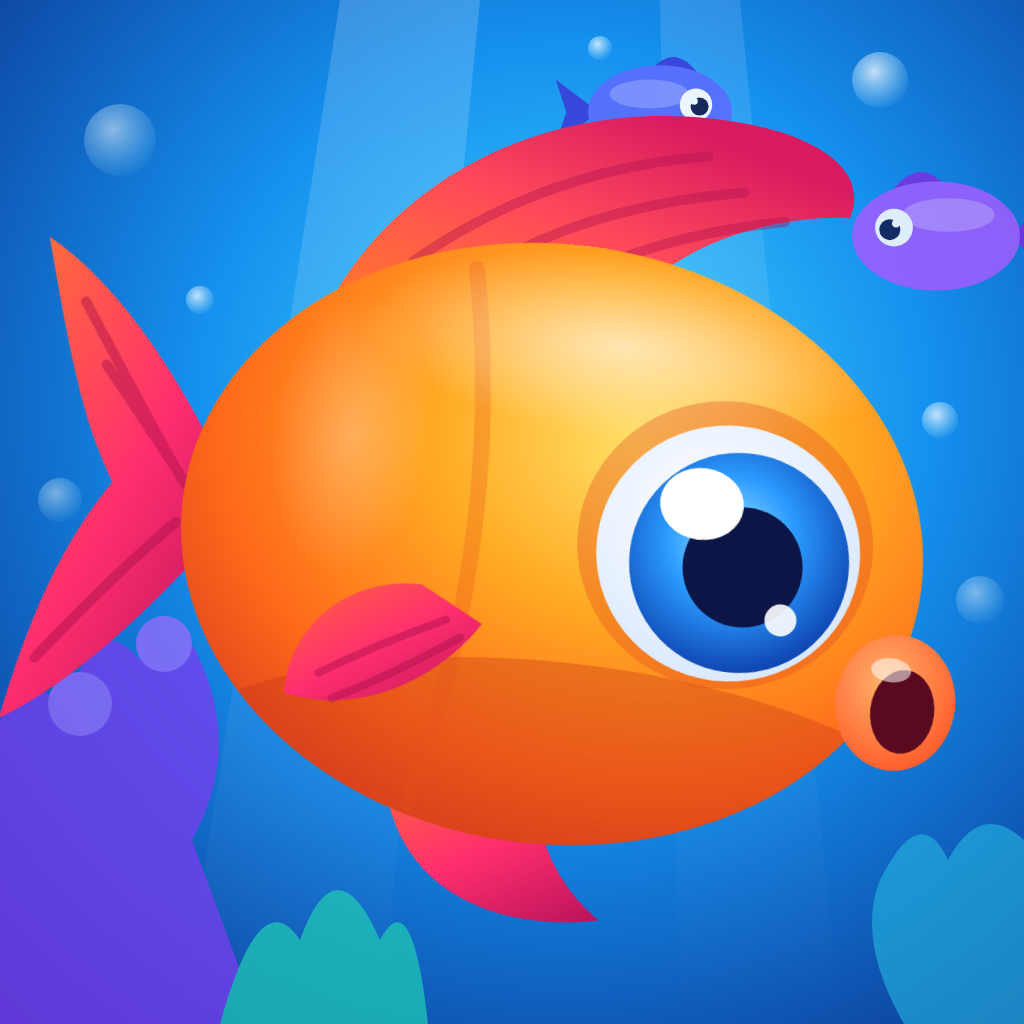
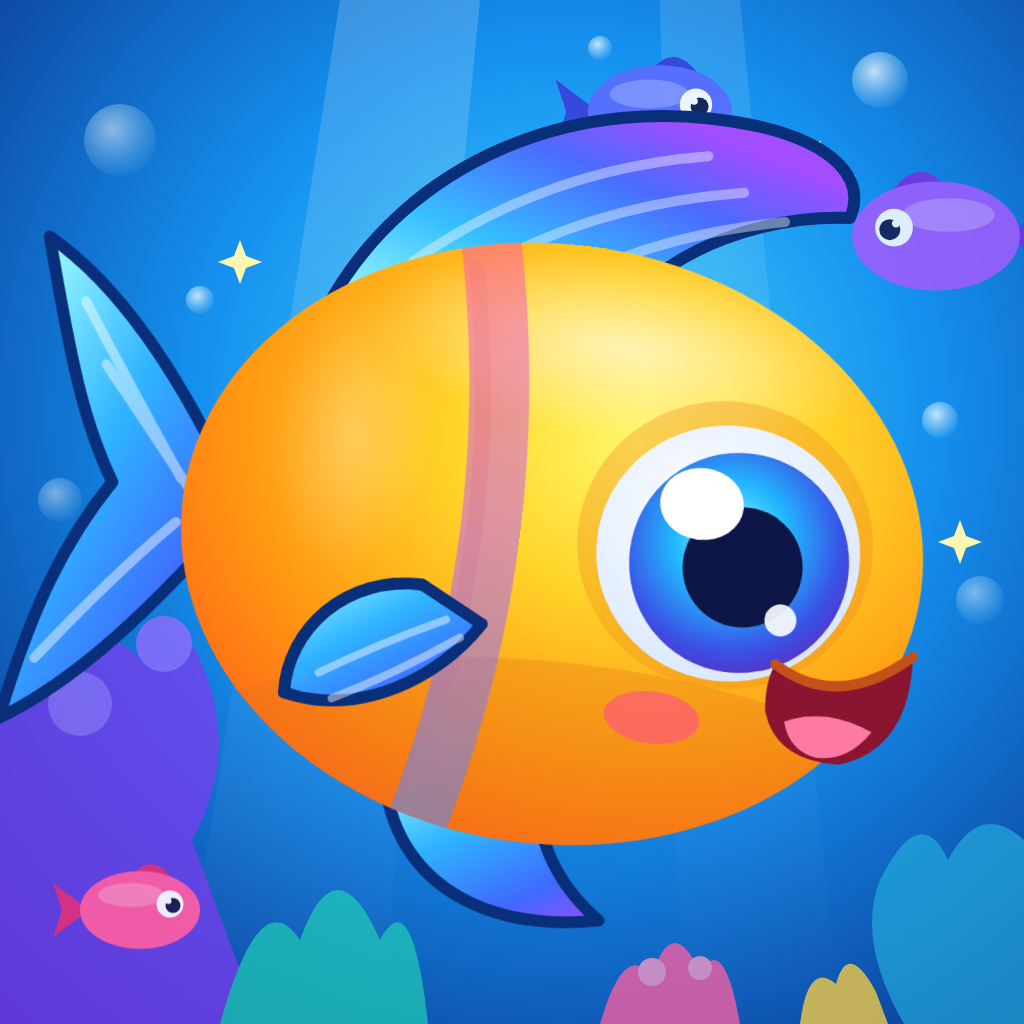
v3.4.0: Endless sea; colourful mascot; NibbleNaut repo and address
- The sea is endless left and right: tiled seamless scenery, spawning
  around the player, no camera edges, Plenty zones follow along.
- Mascot recoloured: orange-yellow body, rainbow blue-violet fins, smile,
  pink-violet stripe; colourful coral, fish and sparkles behind.
- Docs point to https://nafeesmansoor.github.io/NibbleNaut/ (repo renamed
  from fish-fight); custom-domain notes for nabeeha.mansoor.info.

diff --git a/src/render/decor.ts b/src/render/decor.ts
@@ -2,7 +2,8 @@ import { CONFIG } from '../config';
 import { pickWeighted, randRange, seededRng, type Rng } from '../core/math';
 
 /**
- * Reef scenery along the seabed, generated once from a fixed seed. Two rows give depth:
+ * Reef scenery along the seabed, generated once from a fixed seed. The sea is endless: the scenery
+ * is one tile `CONFIG.world.width` long that repeats seamlessly to the left and right. Two rows give depth:
  * the back row stands on the sand line and is softened by water haze; the front row sits in the
  * sand in the foreground. Everything is lit from above (lighter tops, darker bases).
  */
@@ -69,16 +70,20 @@ const PEBBLES = ['#b9b2a6', '#9a9389', '#c7bfb2'];
 export class Decor {
   readonly back: Item[] = [];
   readonly front: Item[] = [];
-  /** Sand surface heights sampled every `sandStep` world units. */
+  /** Sand surface heights sampled every `sandStep` world units across one tile (periodic). */
   readonly sand: number[] = [];
   readonly sandStep = 80;
+  private readonly period = CONFIG.world.width;
 
   constructor(seed = 7) {
     const rng = seededRng(seed);
     const W = CONFIG.world.width;
     const base = CONFIG.world.height - CONFIG.world.seabedHeight;
-    for (let x = 0; x <= W + this.sandStep; x += this.sandStep) {
-      this.sand.push(base + 14 + Math.sin(x * 0.0021) * 10 + Math.sin(x * 0.007 + 1) * 6 + rng() * 4);
+    // Whole numbers of waves per tile, so the sand meets itself seamlessly where tiles join.
+    const k1 = (Math.PI * 2 * 4) / W;
+    const k2 = (Math.PI * 2 * 13) / W;
+    for (let x = 0; x < W; x += this.sandStep) {
+      this.sand.push(base + 14 + Math.sin(x * k1) * 10 + Math.sin(x * k2 + 1) * 6 + rng() * 4);
     }
 
     let x = 20;
@@ -119,28 +124,48 @@ export class Decor {
     }
   }
 
+  /** Sand height at sample index `i` (any integer: the samples repeat every tile). */
+  private sandSample(i: number): number {
+    const n = this.sand.length;
+    return this.sand[((i % n) + n) % n];
+  }
+
   sandAt(x: number): number {
-    const i = Math.max(0, Math.min(this.sand.length - 2, Math.floor(x / this.sandStep)));
-    const t = x / this.sandStep - i;
-    return this.sand[i] + (this.sand[i + 1] - this.sand[i]) * Math.max(0, Math.min(1, t));
+    const f = x / this.sandStep;
+    const i = Math.floor(f);
+    const a = this.sandSample(i);
+    return a + (this.sandSample(i + 1) - a) * (f - i);
   }
 
   drawBack(ctx: CanvasRenderingContext2D, x0: number, x1: number, y0: number, y1: number, t: number, zoom: number): void {
-    drawItems(ctx, this.back, x0, x1, y0, y1, t, zoom);
+    this.tiled(ctx, this.back, x0, x1, y0, y1, t, zoom);
   }
 
   drawFront(ctx: CanvasRenderingContext2D, x0: number, x1: number, y0: number, y1: number, t: number, zoom: number): void {
-    drawItems(ctx, this.front, x0, x1, y0, y1, t, zoom);
+    this.tiled(ctx, this.front, x0, x1, y0, y1, t, zoom);
+  }
+
+  /** Draws every repeat of the tile that overlaps [x0, x1] (with a margin for wide items). */
+  private tiled(ctx: CanvasRenderingContext2D, items: Item[], x0: number, x1: number, y0: number, y1: number, t: number, zoom: number): void {
+    const W = this.period;
+    const margin = 600;
+    for (let k = Math.floor((x0 - margin) / W); k <= Math.floor((x1 + margin) / W); k++) {
+      const off = k * W;
+      ctx.save();
+      ctx.translate(off, 0);
+      drawItems(ctx, items, x0 - off, x1 - off, y0, y1, t, zoom);
+      ctx.restore();
+    }
   }
 
   /** Sand band: textured fill, then shading so it darkens with distance into the foreground. */
   drawSand(ctx: CanvasRenderingContext2D, x0: number, x1: number, texture: CanvasPattern | null, fallback: string, plenty: boolean): void {
     const H = CONFIG.world.height;
-    const i0 = Math.max(0, Math.floor(x0 / this.sandStep) - 1);
-    const i1 = Math.min(this.sand.length - 1, Math.ceil(x1 / this.sandStep) + 1);
+    const i0 = Math.floor(x0 / this.sandStep) - 1;
+    const i1 = Math.ceil(x1 / this.sandStep) + 1;
     ctx.beginPath();
     ctx.moveTo(i0 * this.sandStep, H + 50);
-    for (let i = i0; i <= i1; i++) ctx.lineTo(i * this.sandStep, this.sand[i]);
+    for (let i = i0; i <= i1; i++) ctx.lineTo(i * this.sandStep, this.sandSample(i));
     ctx.lineTo(i1 * this.sandStep, H + 50);
     ctx.closePath();
     ctx.fillStyle = texture ?? fallback;

diff --git a/src/game/World.ts b/src/game/World.ts
@@ -42,6 +42,10 @@ export interface WorldOptions {
  * Everything the presentation layer needs to react to is emitted as `events`.
  */
 export class World {
+  /**
+   * The sea is endless to the left and right. `width` is only the distance after which the
+   * scenery and the Ocean of Plenty feeding zones repeat.
+   */
   readonly width = CONFIG.world.width;
   readonly height = CONFIG.world.height;
   readonly seabedY = CONFIG.world.height - CONFIG.world.seabedHeight;
@@ -97,6 +101,8 @@ export class World {
       this.stats.time += dt;
       this.updatePlayer(dt, controls);
     }
+    // Zones repeat every `width`: each one sits at its copy nearest the player.
+    for (const z of this.zones) z.x = z.baseX + Math.round((p.x - z.baseX) / this.width) * this.width;
     for (const f of this.fish) updateFishAI(this, f, dt);
     this.updateFood(dt);
     resolveCollisions(this);
@@ -123,16 +129,12 @@ export class World {
     return e;
   }
 
-  /** Keeps a body of the given radius inside the swimmable water column. */
+  /** Keeps a body between the surface and the seabed. There are no side walls: the sea is endless. */
   clampToWater(b: { x: number; y: number; radius: number }): boolean {
-    const minX = b.radius;
-    const maxX = this.width - b.radius;
     const minY = b.radius * 0.6;
     const maxY = this.seabedY - b.radius * 0.4;
-    const nx = clamp(b.x, minX, maxX);
     const ny = clamp(b.y, minY, Math.max(minY, maxY));
-    const hit = nx !== b.x || ny !== b.y;
-    b.x = nx;
+    const hit = ny !== b.y;
     b.y = ny;
     return hit;
   }
@@ -192,10 +194,7 @@ export class World {
     const prevSize = p.size;
     p.size = Math.abs(p.targetSize - p.size) < 0.01 ? p.targetSize : damp(p.size, p.targetSize, CONFIG.size.growRate, dt);
     if (p.size !== prevSize) p.radius = radiusFor(p.size);
-    if (this.clampToWater(p)) {
-      if (p.x <= p.radius || p.x >= this.width - p.radius) p.vx *= 0.3;
-      if (p.y <= p.radius * 0.6 || p.y >= this.seabedY - p.radius * 0.4) p.vy *= 0.3;
-    }
+    if (this.clampToWater(p)) p.vy *= 0.3;
 
     if (Math.abs(p.vx) > 4) p.facing = p.vx < 0 ? -1 : 1;
     const sp = Math.hypot(p.vx, p.vy);
@@ -239,7 +238,7 @@ export class World {
       // Spread zones across the width; keep one close to the start so the bonus is felt early.
       const x = i === 0 ? this.player.x + 900 : randRange(this.rng, margin, this.width - margin);
       const y = i === 0 ? this.player.y - 300 : randRange(this.rng, margin, this.seabedY - cfg.zoneRadius);
-      this.zones.push({ id: i, x, y, radius: cfg.zoneRadius });
+      this.zones.push({ id: i, x, baseX: x, y, radius: cfg.zoneRadius });
     }
   }
 }

diff --git a/src/systems/spawn.ts b/src/systems/spawn.ts
@@ -102,7 +102,7 @@ export class SpawnManager {
     for (let attempt = 0; attempt < 12; attempt++) {
       const x = w.viewX + (w.rng() * 2 - 1) * w.viewHalfW * m;
       const y = w.viewY + (w.rng() * 2 - 1) * w.viewHalfH * m;
-      if (x < r || x > w.width - r || y < minY || y > maxY) continue;
+      if (y < minY || y > maxY) continue;
       const margin = r + 60;
       if (Math.abs(x - w.viewX) < w.viewHalfW + margin && Math.abs(y - w.viewY) < w.viewHalfH + margin) continue;
       return { x, y };
@@ -138,7 +138,7 @@ export class SpawnManager {
       for (let i = 0; i < n && w.fish.length < s.fishTarget + 6; i++) {
         const fs = clamp(size * randRange(w.rng, 0.85, 1.15), species.minSize, species.maxSize);
         const spread = radiusFor(fs) * 4;
-        const fx = clamp(pos.x + (w.rng() * 2 - 1) * spread, 0, w.width);
+        const fx = pos.x + (w.rng() * 2 - 1) * spread;
         const fy = clamp(pos.y + (w.rng() * 2 - 1) * spread, 40, w.seabedY - 10);
         w.fish.push(new Fish(w.newFishId(), species, fx, fy, fs, angle + (w.rng() - 0.5) * 0.3));
       }
@@ -164,7 +164,7 @@ export class SpawnManager {
       x = w.viewX + (w.rng() * 2 - 1) * w.viewHalfW * m;
       y = w.viewY + (w.rng() * 2 - 1) * w.viewHalfH * m;
     }
-    if (x < 20 || x > w.width - 20 || y < 60 || y > w.seabedY - 12) return false;
+    if (y < 60 || y > w.seabedY - 12) return false;
     const p = w.player;
     const keepOut = p.radius * 2.5;
     if (Math.abs(x - p.x) < keepOut && Math.abs(y - p.y) < keepOut) return false;

diff --git a/tests/world.test.ts b/tests/world.test.ts
@@ -105,12 +105,30 @@ describe('world', () => {
       expect(w.food.length).toBeLessThan(400);
       for (const f of w.fish) {
         expect(Number.isFinite(f.x) && Number.isFinite(f.y)).toBe(true);
-        expect(f.x).toBeGreaterThanOrEqual(0);
-        expect(f.x).toBeLessThanOrEqual(w.width);
         expect(f.y).toBeGreaterThanOrEqual(0);
         expect(f.y).toBeLessThanOrEqual(w.seabedY);
       }
       for (const f of w.food) expect(f.y).toBeLessThanOrEqual(w.seabedY);
+    }
+  });
+
+  it('the sea is endless: the player swims past the old edges and fish keep spawning nearby', () => {
+    for (const dir of [-1, 1]) {
+      const w = new World({ startSize: 10, ocean: 'plenty', rng: seededRng(3) });
+      const p = w.player;
+      p.protectTime = 1e9;
+      p.x = dir < 0 ? -40000 : w.width + 40000;
+      w.fish.length = 0;
+      const startX = p.x;
+      for (let i = 0; i < 600; i++) {
+        w.update(1 / 60, { moveX: dir, moveY: 0, dash: false });
+        w.setView(p.x, p.y, 450, 260);
+      }
+      expect(dir < 0 ? p.x < startX - 1000 : p.x > startX + 1000).toBe(true);
+      const near = w.fish.filter((f) => Math.abs(f.x - p.x) < 3000);
+      expect(near.length).toBeGreaterThan(5);
+      // Ocean of Plenty zones follow along: the nearest is never more than half a tile away.
+      expect(Math.min(...w.zones.map((z) => Math.abs(z.x - p.x)))).toBeLessThanOrEqual(w.width / 2);
     }
   });
 });

diff --git a/src/render/Renderer.ts b/src/render/Renderer.ts
@@ -115,13 +115,12 @@ export class Renderer {
     this.camera.y = v.y;
   }
 
-  /** The clamped visible area for a camera aimed at (x, y) with the given zoom. */
+  /** The visible area for a camera aimed at (x, y) with the given zoom (clamped vertically only). */
   viewFor(x: number, y: number, zoom: number): { x: number; y: number; halfW: number; halfH: number } {
-    const W = CONFIG.world.width;
     const H = CONFIG.world.height;
     const hw = this.w / 2 / zoom;
     const hh = this.h / 2 / zoom;
-    const cx = W < hw * 2 ? W / 2 : clamp(x, hw, W - hw);
+    const cx = x;
     const minY = hh - 140; // a peek above the surface
     const maxY = H - CONFIG.world.seabedHeight + 110 - hh; // show only a strip of sand
     const cy = maxY < minY ? (minY + maxY) / 2 : clamp(y, minY, maxY);

diff --git a/src/game/Game.ts b/src/game/Game.ts
@@ -314,9 +314,8 @@ export class Game {
 
     if (this.state === 'playing' || this.state === 'dying' || this.state === 'menu' || this.state === 'over') {
       if (this.state === 'menu') {
-        // Drift the invisible reference point back and forth so the menu ocean keeps moving.
+        // Drift the invisible reference point through the endless sea so the menu ocean keeps moving.
         w.player.x += 40 * dt * this.menuDir;
-        if (w.player.x > w.width - 1500 || w.player.x < 1500) this.menuDir *= -1;
       }
       const controls = this.state === 'playing' ? this.controls() : this.idle;
       w.update(dt, controls);

diff --git a/src/game/entities.ts b/src/game/entities.ts
@@ -135,7 +135,9 @@ export class Food {
 
 export interface FeedingZone {
   id: number;
+  /** Current position: the repeat of `baseX` nearest the player. */
   x: number;
+  baseX: number;
   y: number;
   radius: number;
 }

diff --git a/README.md b/README.md
@@ -2,7 +2,7 @@
 
 *An Adventure in the Bay of Bengal* · **Eat. Grow. Explore. Survive.**
 
-> Formerly **Fish Fight** (renamed in 3.0.1). Internal identifiers keep the old name on purpose so existing players lose nothing: the save key `fishfight.save`, the `fishfight.triviaSeen` and `fishfight.updatedFrom` keys, the service-worker cache prefix `fish-fight-v`, and the repository/URL `fish-fight`. Don't rename them.
+> Formerly **Fish Fight** (renamed in 3.0.1). Internal identifiers keep the old name on purpose so existing players lose nothing: the save key `fishfight.save`, the `fishfight.triviaSeen` and `fishfight.updatedFrom` keys, and the service-worker cache prefix `fish-fight-v`. Don't rename them. The repository was renamed from `fish-fight` to `NibbleNaut` in 3.4.0; a small stand-in repository named `fish-fight` keeps the old address (`nafeesmansoor.github.io/fish-fight/`) forwarding players here and retires the old offline copy.
 
 A colorful 2D underwater survival-and-growth game set in the Bay of Bengal for desktop and mobile browsers. You start as a small fish, eat smaller fish and food to grow, and avoid bigger predators. A strong score earns a better start in your next game. An unbelievably amazing score unlocks **The Ocean of Plenty**.
 
@@ -42,7 +42,7 @@ The rules are in [docs/PWA.md](docs/PWA.md); the release log is [CHANGELOG.md](C
 2. Add a `## [X.Y.Z] - YYYY-MM-DD` entry to `CHANGELOG.md`.
 3. `npm run release`. A major bump also needs `ALLOW_MAJOR=1 npm run release`.
 4. Commit as `vX.Y.Z: summary`, tag `vX.Y.Z`, push with `--tags`. CI repeats the checks.
-5. Pushing to `main` deploys the game from this repo to GitHub Pages (`.github/workflows/pages.yml`): **https://nafeesmansoor.github.io/fish-fight/**. The service worker (update checker) and the install manifest are served from there, so every Fish Fight release reaches players without any other site having to redeploy. `https://www.nafees.info/apps/pwa/FishFight/` forwards to it. Then verify the live site (docs/PWA.md §9).
+5. Pushing to `main` deploys the game from this repo to GitHub Pages (`.github/workflows/pages.yml`): **https://nafeesmansoor.github.io/NibbleNaut/**. The service worker (update checker) and the install manifest are served from there, so every Fish Fight release reaches players without any other site having to redeploy. `https://www.nafees.info/apps/pwa/FishFight/` forwards to it. Then verify the live site (docs/PWA.md §9).
 
 **How updates reach players.** The build writes `dist/sw.js` with the version and the full list of files to precache, so every release changes the service worker and browsers notice. The new version downloads in the background and waits. On the main menu it applies at once. On the game-over screen players get an "Update now" button. During a match they are only told to finish first, so a match is never interrupted. After the reload they see "Fish Fight updated successfully." If a download fails, the old version keeps running and the browser retries later. The game checks for updates on launch, when the player returns to it, and at most once an hour.
 
@@ -50,9 +50,15 @@ The rules are in [docs/PWA.md](docs/PWA.md); the release log is [CHANGELOG.md](C
 
 **Rollback.** Never redeploy an older build under its old version: browsers that already have the newer worker will not go back. Instead revert the change, bump the patch version (e.g. 1.0.4 → 1.0.5), and release that. Players' saves are unaffected. Before migrating, a save from an older format is copied to `fishfight.save.backup-v<N>`, and a corrupt save to `fishfight.save.backup-corrupt`.
 
+## Custom domain (planned)
+
+To serve the game at `https://nabeeha.mansoor.info`: add a DNS `CNAME` record `nabeeha` → `nafeesmansoor.github.io`, then set the custom domain in the repo's **Settings → Pages** (GitHub adds the `CNAME` and HTTPS). Two things to plan for, because a new domain is a new site to the browser:
+- **Progress:** browser storage doesn't carry over to a new domain. Players move it with **Settings → Copy / Paste progress code** (or ship a hand-off release that does it automatically).
+- **Installed copies:** GitHub redirects the `github.io` address to the domain at the server, so installed copies would stop receiving updates. Release a hand-off version first that points players to the new domain, then switch.
+
 ## Icons and mascot
 
-The mascot (a glossy orange fish with crimson-magenta fins, a huge shiny blue eye and a round "O" mouth) is drawn once in `tools/mascot.mjs`. `node tools/make-icons.mjs` regenerates `public/favicon.svg`, `public/mascot.svg` (home screen), the PWA icons in `public/icons/` (192, 512, maskable 512, Apple touch 180) and `store/icon-1024.png` for store listings. It renders with a local Chrome; commit the outputs.
+The mascot (a glossy orange-yellow fish with rainbow blue-violet fins, a huge shiny blue eye and a big smile) is drawn once in `tools/mascot.mjs`. `node tools/make-icons.mjs` regenerates `public/favicon.svg`, `public/mascot.svg` (home screen), the PWA icons in `public/icons/` (192, 512, maskable 512, Apple touch 180) and `store/icon-1024.png` for store listings. It renders with a local Chrome; commit the outputs.
 
 ## Installing, and the app stores
 

diff --git a/CHANGELOG.md b/CHANGELOG.md
@@ -2,6 +2,13 @@
 
 All notable changes to NibbleNaut (formerly Fish Fight). Versions follow [semantic versioning](https://semver.org/); see `docs/PWA.md` for the release rules.
 
+## [3.4.0] - 2026-10-21
+
+### Changed
+- The sea is now endless: swim left or right forever. The reef, sand and scenery repeat seamlessly, fish and food keep spawning around you, the camera no longer stops at the old edges, and Ocean of Plenty feeding zones follow along.
+- Mascot and icons recoloured and made more colourful: a sunny orange-yellow fish with rainbow fins (cyan to blue to violet, with crisp navy edges), a teal-violet eye, a pink-violet stripe, rosy cheeks and a big smile, keeping the pose from the owner's reference. The background gets pink and yellow coral, a pink fish and sparkles.
+- The project is now `NibbleNaut` everywhere: the GitHub repository is renamed from `fish-fight`, and the game is served at `https://nafeesmansoor.github.io/NibbleNaut/`. The old address forwards here, and browser players keep their progress (same site).
+
 ## [3.3.0] - 2026-10-21
 
 ### Changed
